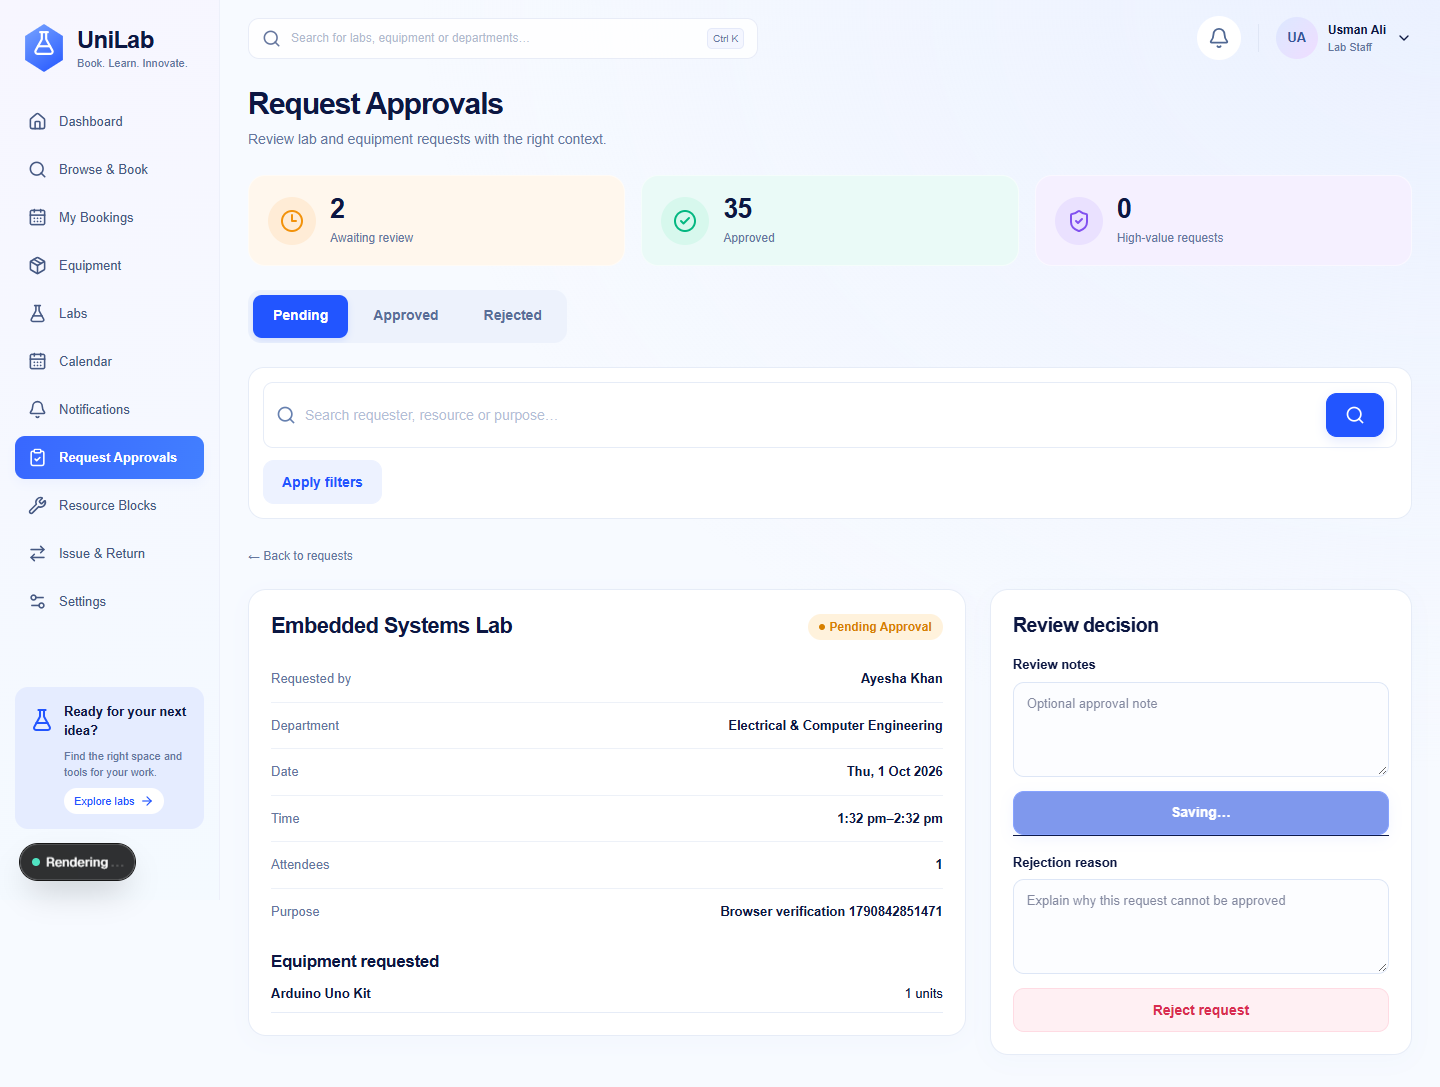
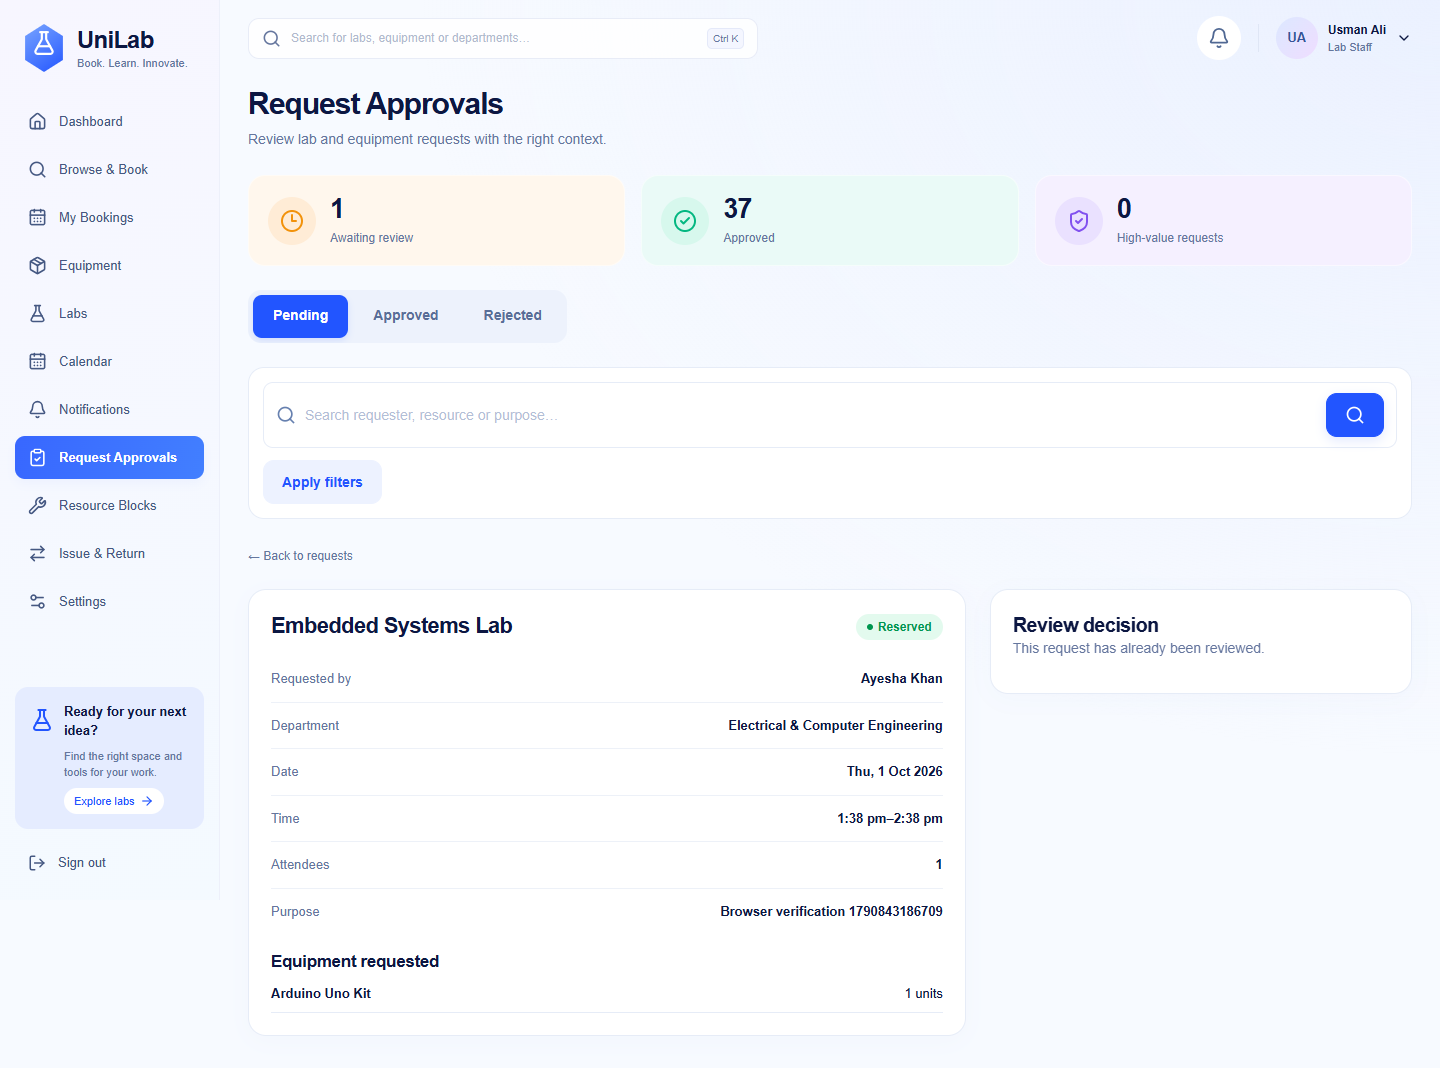
test: verify complete booking lifecycle in production

diff --git a/docs/implementation-status.md b/docs/implementation-status.md
@@ -17,3 +17,5 @@ Production environment variables are encrypted in the linked Vercel project. Loc
 
 Production: https://university-lab-booking-system.vercel.app
 34 production browser checks pass across the four authenticated roles at mobile and desktop widths. Results and screenshots are in docs/evidence/production.
+
+The full request → conflict suggestions → staff approval → equipment issue → equipment return lifecycle also passed on the public production URL, with persisted notifications and audit history.
